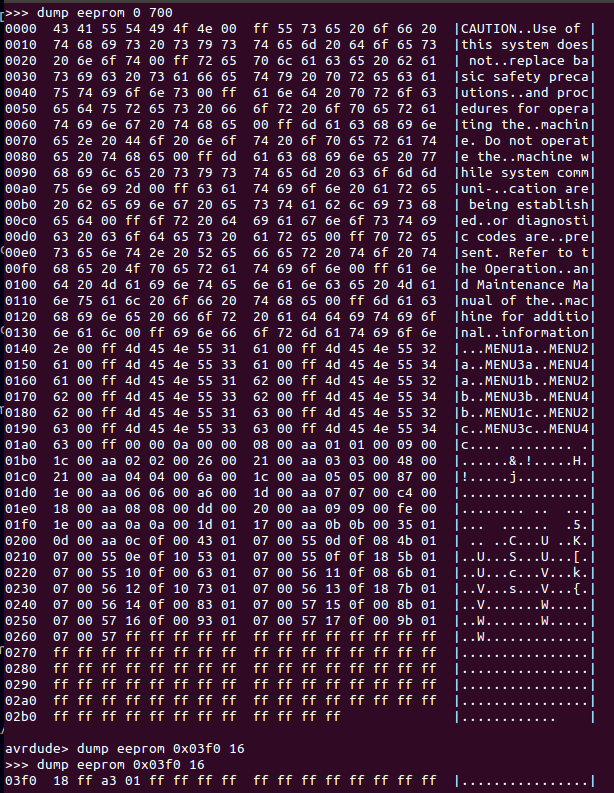
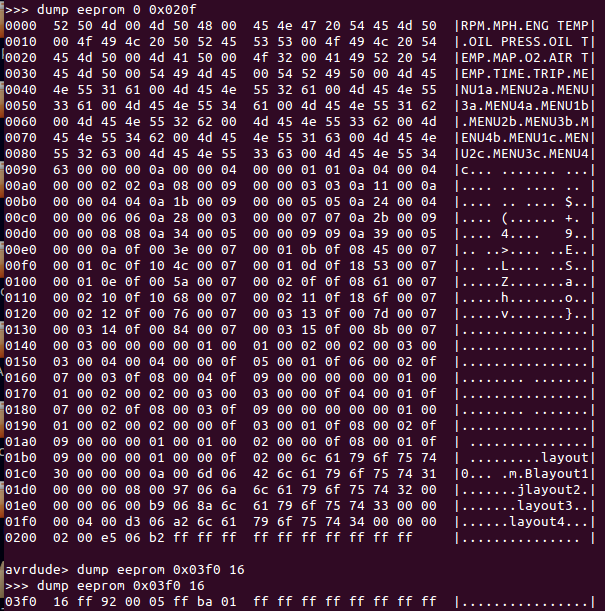
added back ProMiniPinout.txt and fixed README.md

diff --git a/README.md b/README.md
@@ -1,13 +1,12 @@
-project to run 6963 graphics LCD from a ATmega328p
+<h1>Project to run 6963 graphics LCD from a ATmega328p</h1>
 
-uses buspirate with avrdude to program a Pro Mini atmega328p
-see ProMiniPinout.txt for description of pins used.
-run-avrdude will run avr with the appropriate parameters for my setup. I'm using a buspirate on the first USB port.
-Use getinfo to test the USB port. 
-run-test.sh <arg> will do a make clean;make upload; and create a file called <arg>.stats.txt and then called
-flash_write.sh <arg> which will flash the chip and then do a make clean
-flash_write.sh put the results in <arg>.hex_out
-flash_read.sh <arg> will read the flash and put the results in <arg>.hex
-there are some files with the extention *.cx which are other *.c files to compile which have to be renamed
-because the Makefile will compile and try to link all *.c files and there will be an error trying to link
-multiple files with main()
+uses buspirate with avrdude to program a Pro Mini atmega328p<br />
+see ProMiniPinout.txt and t6963_notes.txt for more info.<br />
+run-avrdude will run avr with the appropriate parameters for my setup. I'm using a buspirate on the first<br />
+USB port. Use getinfo to test the USB port. There are some files with the extention *.cx which are<br />
+other *.c files to compile which have to be renamed because the Makefile will compile and try to<br /> 
+link all *.c files and there will be an error trying to link multiple files with main(). So to burn the<br />
+eeprom, rename eeprom_burn.cx to eeprom_burn.c and rename main.c to main.cx. Visa versa to run the main<br />
+program. Before burning the eeprom, run "Makefile set_default_fuses" to unset the EESAVE fuse. Then burn<br />
+the eeprom, then run "Makefile set_eeprom_save_fuse" to set the EESAVE fuse so you can reflash the chip<br />
+without erasing the eeprom.<br /> 
